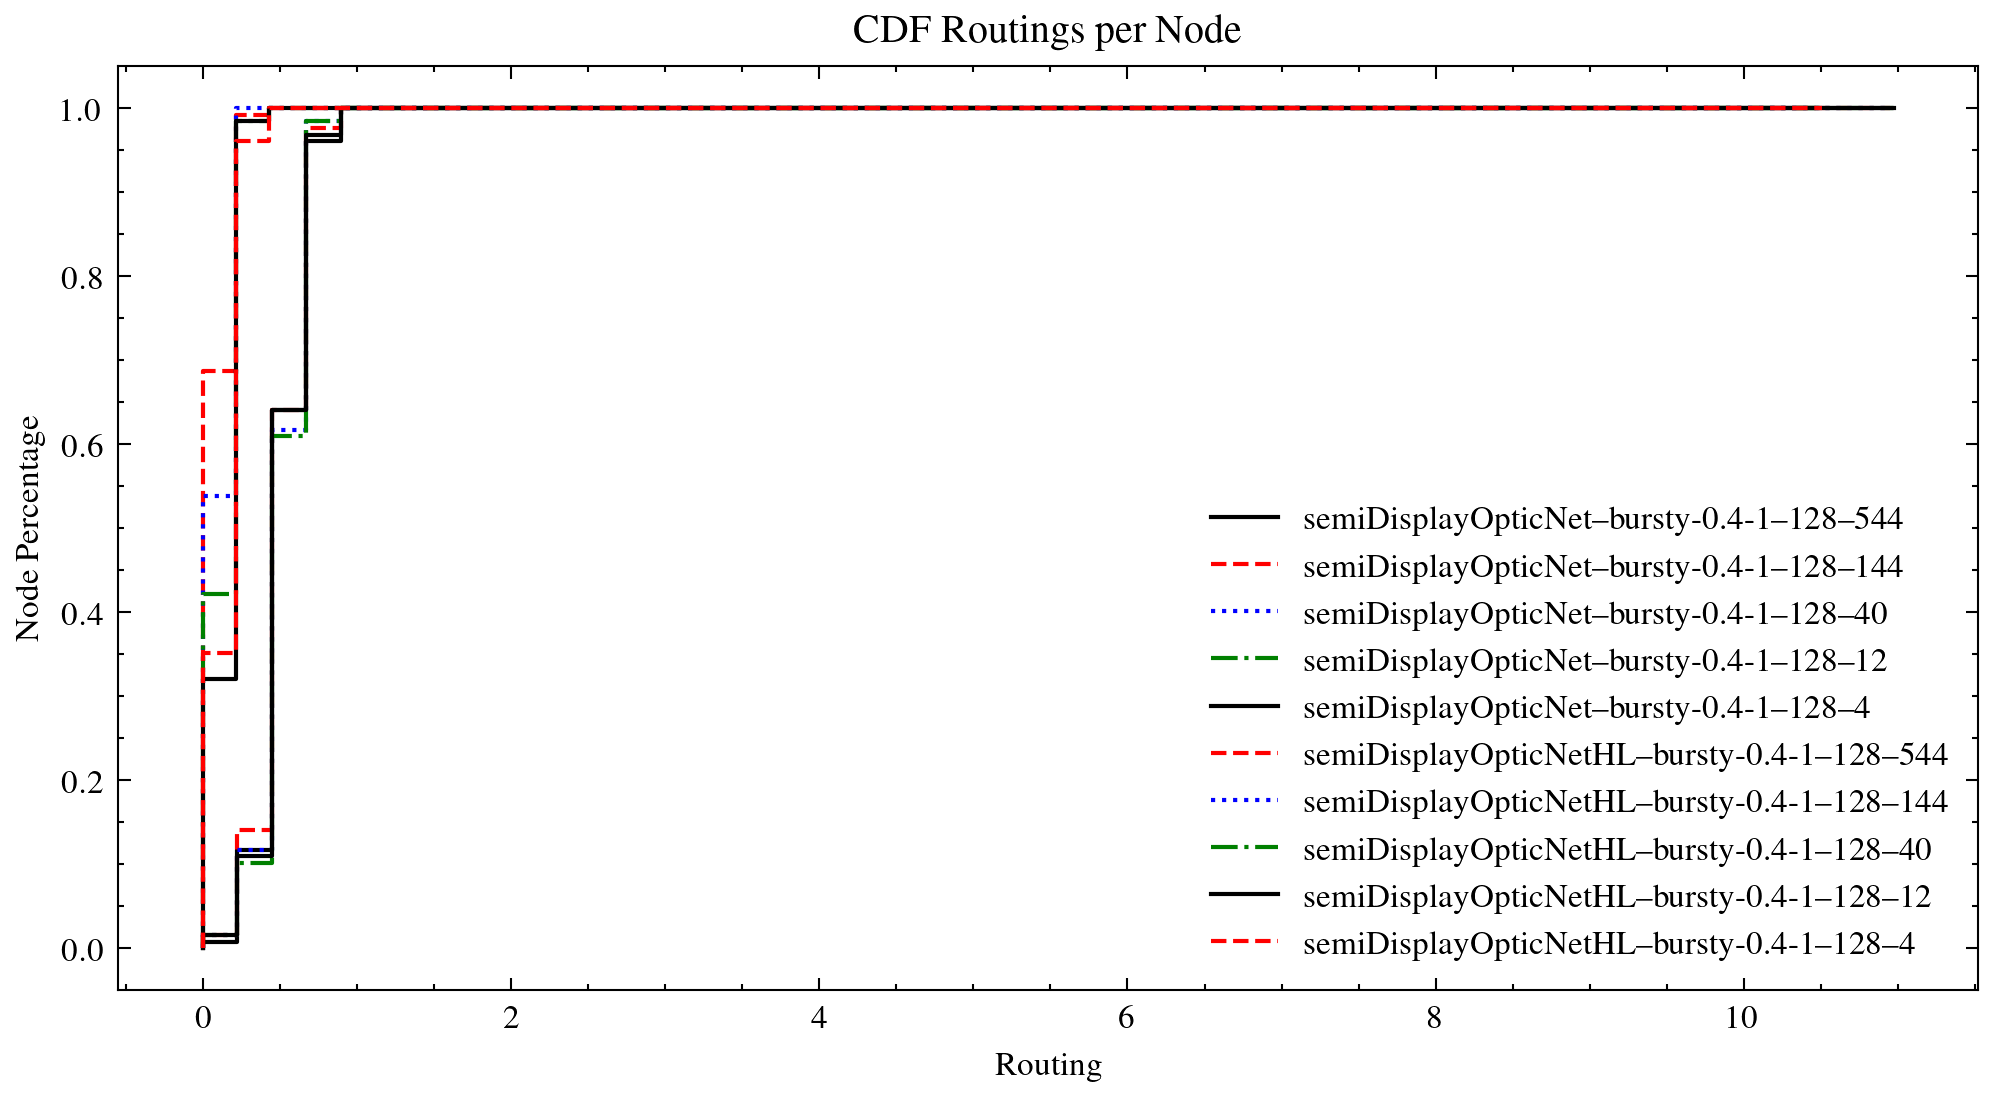
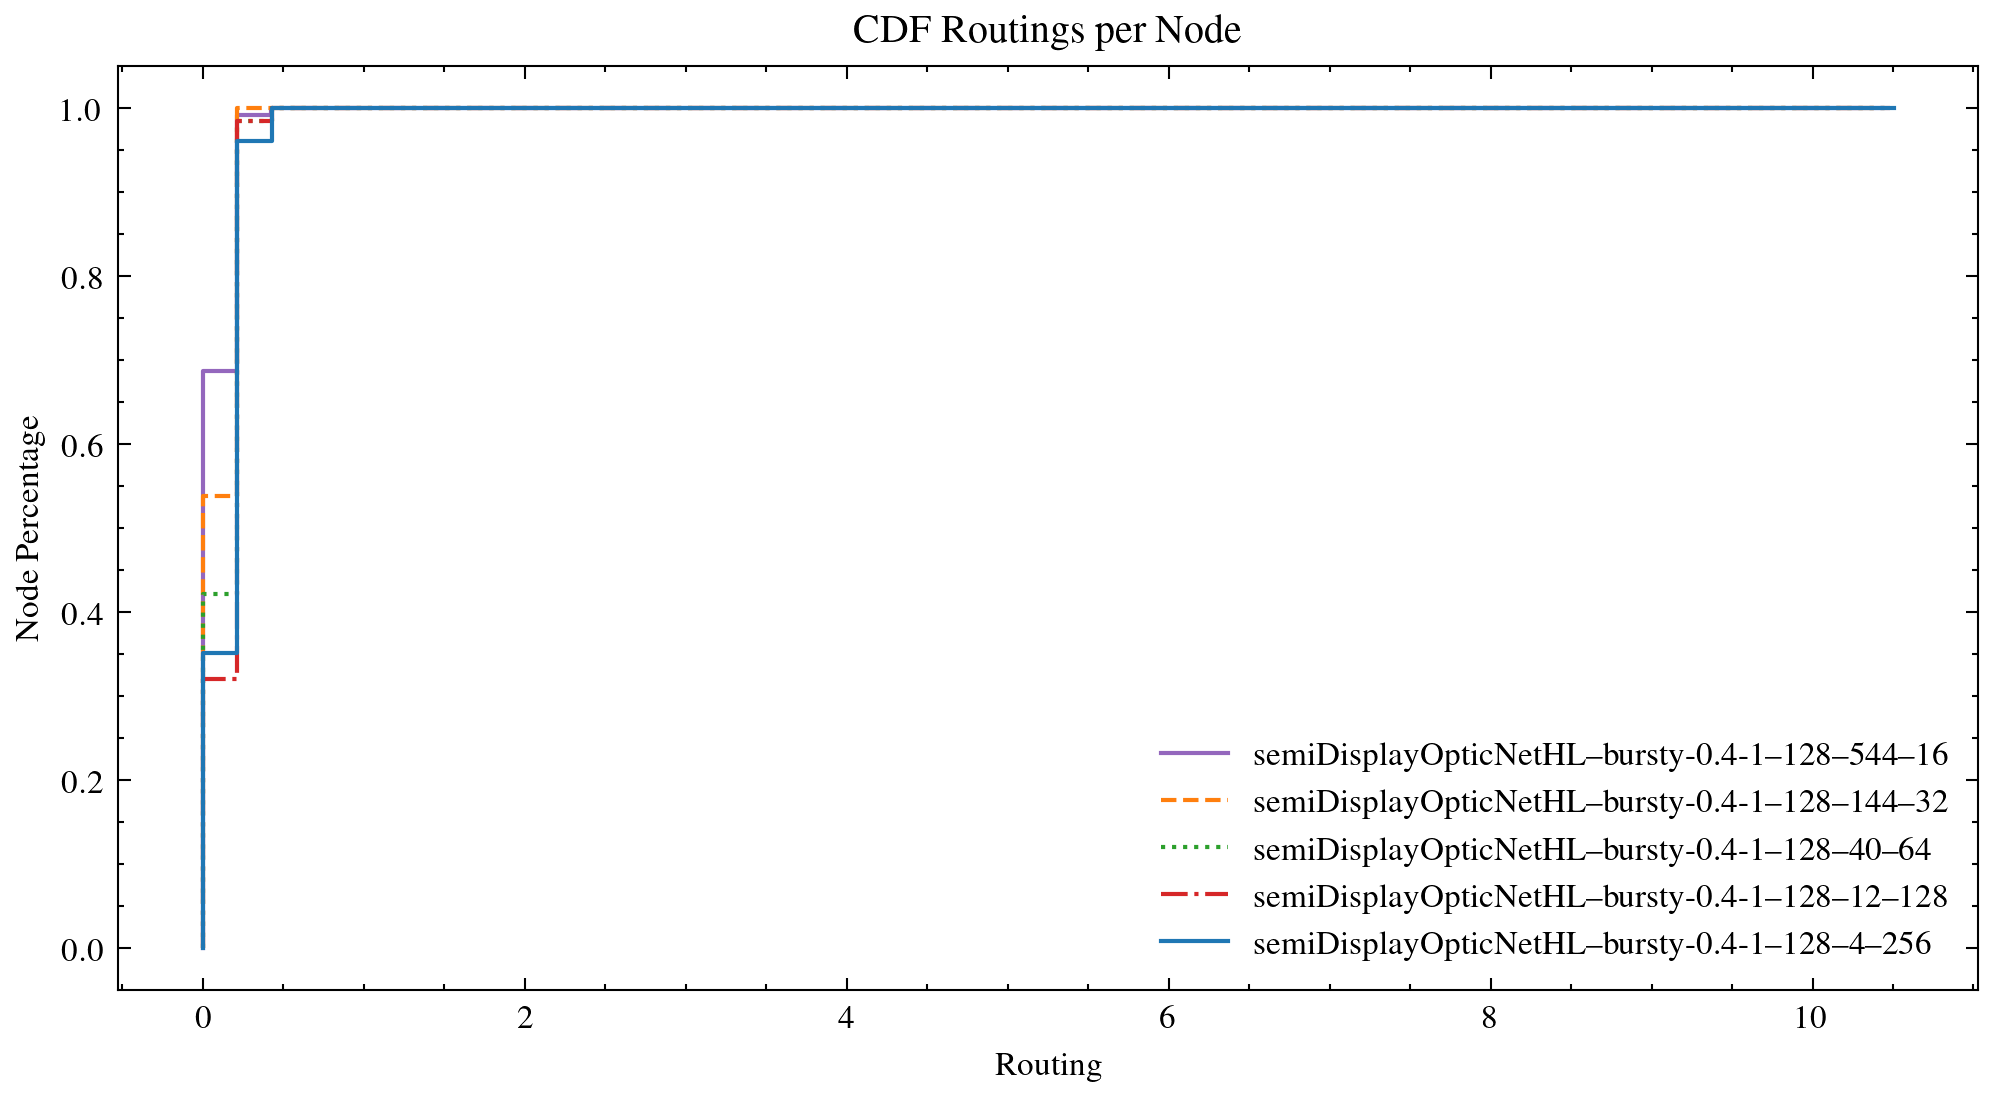
added different colors for switch_size and added switch_size in legend

diff --git a/plotter/Plotter.py b/plotter/Plotter.py
@@ -10,7 +10,7 @@ abbr: dict[str, str] = {
     "cbOptNet": "CBN",
     "displayOpticNet": "ODSN",
     "semiDisplayOpticNet": "DSN",
-    "semiDisplayOpticNetHL" : "DSNHL",
+    "semiDisplayOpticNetHL" : "OP",
     "SplayOpticNet": "SN"
 }
 
@@ -19,7 +19,10 @@ class Plotter:
     @classmethod
     def get_project_name (cls, data) -> str:
         project = abbr[data.project]
-        return f"OpticNet({project})"
+        if project == "OP":
+            return "OpticNet$^{OP}$" + f"({project})"
+        else:
+            return f"OpticNet({project})"
 
     @classmethod
     def total_work_link_updates (
@@ -35,29 +38,29 @@ class Plotter:
         for data in plot_data:
             project_name = cls.get_project_name(data)
 
-            total_routing, total_link_updates, total_work = data.read_operations()            
+            total_routing, total_alterations, total_work = data.read_operations()            
 
             project_names.append(project_name)
             routing_means.append(total_routing.mean() / normalize)
-            alteration_means.append(total_link_updates.mean() / normalize)
+            alteration_means.append(total_alterations.mean() / normalize)
             work_stds.append((total_work / normalize).std())
             switch_sizes.append(data.switch_size)
 
         if ax is None:
             fig, ax = plt.subplots(figsize=(8, 4))
             ax.legend(loc="right")
-            ax.set_title("Total Work Link Updates")
+            ax.set_title("Total Work")
             ax.set_xlabel("Project")
             ax.set_ylabel("Work * 10 ^ 4")
 
         ax.bar(project_names, routing_means, label="Service Cost", color=["silver"])
         ax.bar(
             project_names, alteration_means, 
-            bottom=routing_means, label="Link Adjustments",  color=["grey"]
+            bottom=routing_means, label="Link Updates",  color=["grey"]
         )
         ax.legend(loc="best")
         
-    def cdf_active_switches (cdf_array: np.ndarray, ax: plt.axes = None) -> None:
+    def cdf_active_switches (cdf_array: np.ndarray, ax: plt.axes = None, color: tuple = None) -> None:
         ecdf = sm.distributions.empirical_distribution.ECDF(cdf_array)
 
         if ax is None:
@@ -71,9 +74,12 @@ class Plotter:
         x = np.linspace(min_indx, max(cdf_array))
         y = ecdf(x)
 
-        return ax.step(x, y)
+        if color is None:
+            return ax.step(x, y)
+        else:
+            return ax.step(x, y, color=color)
 
-    def cdf_active_ports (cdf_array: np.ndarray, ax: plt.axes = None) -> None:
+    def cdf_active_ports (cdf_array: np.ndarray, ax: plt.axes = None, color: tuple = None) -> None:
         ecdf = sm.distributions.empirical_distribution.ECDF(cdf_array)
 
         if ax is None:
@@ -86,9 +92,12 @@ class Plotter:
         x = np.linspace(0, max(cdf_array) + 100)
         y = ecdf(x)
 
-        return ax.step(x, y)
+        if color is None:
+            return ax.step(x, y)
+        else:
+            return ax.step(x, y, color=color)
 
-    def cdf_switches_active_ports (cdf_array: np.ndarray, ax: plt.axes = None) -> None:
+    def cdf_switches_active_ports (cdf_array: np.ndarray, ax: plt.axes = None, color: tuple = None) -> None:
         ecdf = sm.distributions.empirical_distribution.ECDF(cdf_array)
 
         if ax is None:
@@ -102,10 +111,14 @@ class Plotter:
         max_indx = max(cdf_array + 0.1)
         x = np.linspace(min_indx, max_indx)
         y = ecdf(x)
+        
+        if color is None:
+            return ax.step(x, y)
+        else:
+            return ax.step(x, y, color=color)
 
-        return ax.step(x, y)
 
-    def cdf_routings (cdf_array: np.ndarray, ax: plt.axes = None) -> None:
+    def cdf_routings (cdf_array: np.ndarray, ax: plt.axes = None, color: tuple = None) -> None:
         ecdf = sm.distributions.empirical_distribution.ECDF(cdf_array)
 
         if ax is None:
@@ -120,9 +133,12 @@ class Plotter:
         x = np.linspace(min_indx, max_indx)
         y = ecdf(x)
 
-        return ax.step(x, y)
+        if color is None:
+            return ax.step(x, y)
+        else:
+            return ax.step(x, y, color=color)
 
-    def cdf_alterations (cdf_array: np.ndarray, ax: plt.axes = None) -> None:
+    def cdf_alterations (cdf_array: np.ndarray, ax: plt.axes = None, color: tuple = None) -> None:
         ecdf = sm.distributions.empirical_distribution.ECDF(cdf_array)
 
         if ax is None:
@@ -137,4 +153,7 @@ class Plotter:
         x = np.linspace(min_indx, max_indx)
         y = ecdf(x)
 
-        return ax.step(x, y)
+        if color is None:
+            return ax.step(x, y)
+        else:
+            return ax.step(x, y, color=color)

diff --git a/plotter/plot_script.py b/plotter/plot_script.py
@@ -23,15 +23,16 @@ reload(Plotter)
 
 # In[3]:
 
-projects = [ "semiDisplayOpticNet"
-,"semiDisplayOpticNetHL"
+projects = [ #"semiDisplayOpticNet"
+"semiDisplayOpticNetHL"
 #,"SplayOpticNet"
 ]
-switch_sizes = [ 16, 32, 64, 128, 256 ]
-num_simulations = 1
+switch_sizes = [ 16,32,64,128,256 ]
+num_simulations = 30
 datasets = [ "bursty-0.4-1" ]
 num_nodes = [ 128 ]
 mus = [ 4 ]
+
 
 '''
 num_nodes = [ 367 ]
@@ -83,11 +84,20 @@ slc = [ i for i in range(len(tor_data)) ]
 
 print(tor_data[slc])
 
+# Collect unique values of data.switch_size
+unique_switch_sizes = set(data.switch_size for data in tor_data[slc])
+
+# Define a list of unique colors
+colors = plt.cm.tab10.colors[:len(unique_switch_sizes)]  # Using a predefined colormap for colors
+
+# Create a dictionary mapping each unique switch_size to a unique color
+color_dict = dict(zip(unique_switch_sizes, colors))
 
 # In[9]:
 
 fig, ax = plt.subplots(figsize=(7, 4))
 ax.set_ylabel("Work 10**4")
+ax.set_xlabel("Project")
 
 Plotter.Plotter.total_work_link_updates(tor_data[slc], normalize=1e4, ax=ax)
 
@@ -106,10 +116,11 @@ ax.set_xlabel("Ports Percentage")
 ax.set_ylabel("Switch Percentage")
 
 for data in tor_data[slc]:
-    Plotter.Plotter.cdf_switches_active_ports(data.cdf_switch_active_ports(), ax)
+    color = color_dict[data.switch_size]  # Get color based on switch_size
+    Plotter.Plotter.cdf_switches_active_ports(data.cdf_switch_active_ports(), ax, color=color)
 
 ax.legend([
-    f"{data.project}--{data.dataset}--{data.num_nodes}--{data.num_switches}"
+    f"{data.project}--{data.dataset}--{data.num_nodes}--{data.num_switches}--{data.switch_size}"
     for data in tor_data[slc]
 ], loc="best", frameon=False)
 
@@ -127,10 +138,11 @@ ax.set_xlabel("Rounds")
 ax.set_ylabel("Ports Percentage")
 
 for data in tor_data[slc]:
-    Plotter.Plotter.cdf_active_ports(data.cdf_active_ports(), ax)
+    color = color_dict[data.switch_size]  # Get color based on switch_size
+    Plotter.Plotter.cdf_active_ports(data.cdf_active_ports(), ax, color=color)
 
 ax.legend([
-    f"{data.project}--{data.dataset}--{data.num_nodes}--{data.num_switches}"
+    f"{data.project}--{data.dataset}--{data.num_nodes}--{data.num_switches}--{data.switch_size}"
     for data in tor_data[slc]
 ], loc="best", frameon=False)
 
@@ -148,10 +160,11 @@ ax.set_xlabel("Routing")
 ax.set_ylabel("Node Percentage")
 
 for data in tor_data[slc]:
-    Plotter.Plotter.cdf_routings(data.cdf_node_routings(), ax)
+    color = color_dict[data.switch_size]  # Get color based on switch_size
+    Plotter.Plotter.cdf_routings(data.cdf_node_routings(), ax, color=color)
 
 ax.legend([
-    f"{data.project}--{data.dataset}--{data.num_nodes}--{data.num_switches}"
+    f"{data.project}--{data.dataset}--{data.num_nodes}--{data.num_switches}--{data.switch_size}"
     for data in tor_data[slc]
 ], loc="best", frameon=False)
 
@@ -169,10 +182,11 @@ ax.set_xlabel("Alterations")
 ax.set_ylabel("Node Percentage")
 
 for data in tor_data[slc]:
-    Plotter.Plotter.cdf_alterations(data.cdf_node_alterations(), ax)
+    color = color_dict[data.switch_size]  # Get color based on switch_size
+    Plotter.Plotter.cdf_alterations(data.cdf_node_alterations(), ax, color=color)
 
 ax.legend([
-    f"{data.project}--{data.dataset}--{data.num_nodes}--{data.num_switches}"
+    f"{data.project}--{data.dataset}--{data.num_nodes}--{data.num_switches}--{data.switch_size}"
     for data in tor_data[slc]
 ], loc="best", frameon=False)
 
@@ -190,10 +204,11 @@ ax.set_xlabel("Routing")
 ax.set_ylabel("Switches Percentage")
 
 for data in tor_data[slc]:
-    Plotter.Plotter.cdf_routings(data.cdf_switch_routings(), ax)
+    color = color_dict[data.switch_size]  # Get color based on switch_size
+    Plotter.Plotter.cdf_routings(data.cdf_switch_routings(), ax, color=color)
 
 ax.legend([
-    f"{data.project}--{data.dataset}--{data.num_nodes}--{data.num_switches}"
+    f"{data.project}--{data.dataset}--{data.num_nodes}--{data.num_switches}--{data.switch_size}"
     for data in tor_data[slc]
 ], loc="best", frameon=False)
 
@@ -211,10 +226,11 @@ ax.set_xlabel("Alterations")
 ax.set_ylabel("Switches Percentage")
 
 for data in tor_data[slc]:
-    Plotter.Plotter.cdf_alterations(data.cdf_switch_alterations(), ax)
+    color = color_dict[data.switch_size]  # Get color based on switch_size
+    Plotter.Plotter.cdf_alterations(data.cdf_switch_alterations(), ax, color=color)
 
 ax.legend([
-    f"{data.project}--{data.dataset}--{data.num_nodes}--{data.num_switches}"
+    f"{data.project}--{data.dataset}--{data.num_nodes}--{data.num_switches}--{data.switch_size}"
     for data in tor_data[slc]
 ], loc="best", frameon=False)
 

diff --git a/scripts_win/normal.py b/scripts_win/normal.py
@@ -86,10 +86,10 @@ for project in projects:
                             continue
 
                         if sequentiality == "true":
-                            output_path = f"output/normalDS-{dataset}/SplayOpticNet_{num_node}/{switch_size}/1/"
+                            output_path = f"output/normalDS-{dataset}/SplayOpticNet_{num_node}/{switch_size}/{mu}/1/"
 
                         else:
-                            output_path = f"output/normalDS-{dataset}/{project}_{num_node}/{switch_size}/1/"
+                            output_path = f"output/normalDS-{dataset}/{project}_{num_node}/{switch_size}/{mu}/1/"
 
                         input_file = f"input/normalDS/{num_node}/{num_node}-{dataset}-std.txt"
                         sim_stream = f"logs/{output_path}sim.txt"
